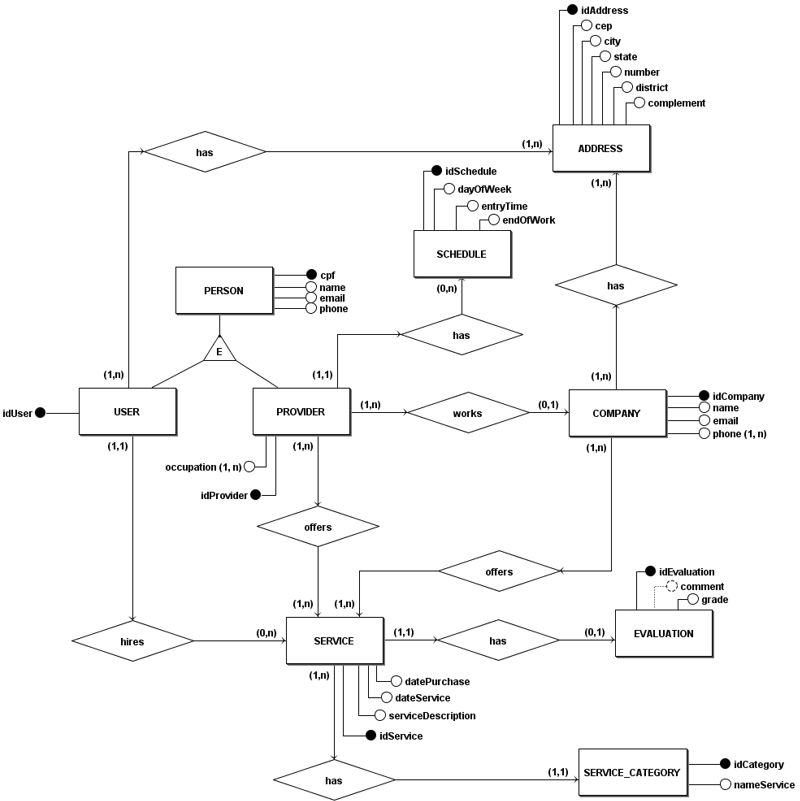
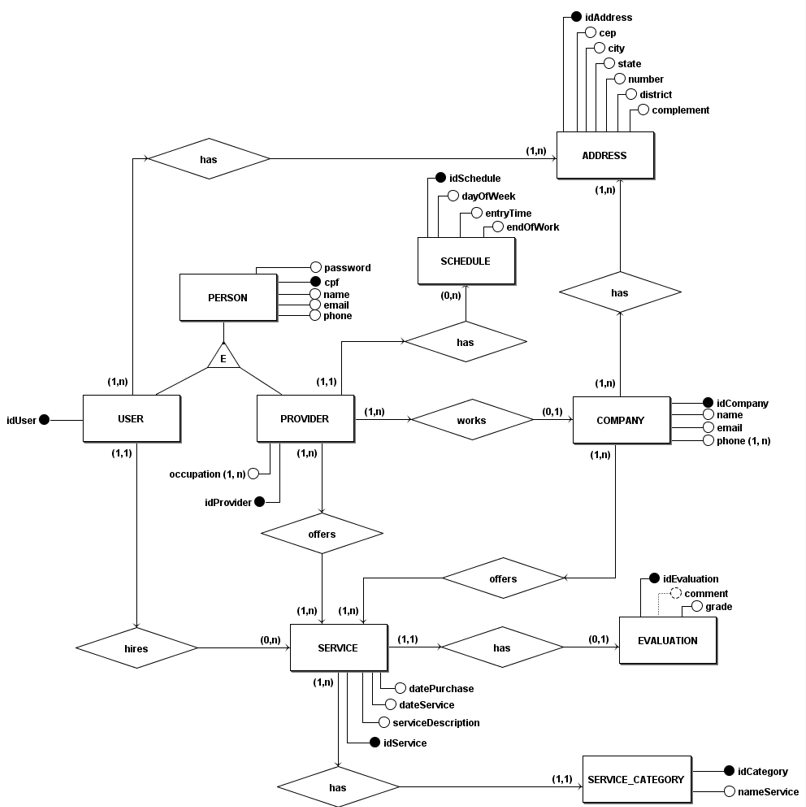
Reformulação da introdução e adição de biliografias

Changed region(s): [[0.0, 0.0, 1.0, 1.0], [0.6875, 0.3121, 0.8438, 0.4057], [0.3438, 0.9675, 0.375, 0.9988]]

diff --git a/docs/pages/modelagem/modelagemBanco.md b/docs/pages/modelagem/modelagemBanco.md
@@ -6,9 +6,16 @@
 
 O processo de modelagem de banco de dados é um processo de desenvolvimento de software que visa a construção de um modelo de dados que represente a estrutura de dados de uma base de dados, nesse processo se usa de coletas, analises, categorização e a explorarão dos dados e seus tipos.
 
-O documento em questão tem como objetivo documentar e apresentar a modelagem do banco de dados previamente definida e ir evoluindo de acordo com a evolução do software.
+"O objetivo da Modelagem de Dados é transmitir e apresentar uma representação única"(Machado, 2004, p.25), tarefa que não é simples levando em conta a complexidade de tarefas realizadas por softwares atuais. Para que a modelagem das entidades que compõe um sistema seja feita de forma adequada, por profissionais que não são especialistas, "que se propõe a situar uma sequência de atividades em uma ordem que possa resultar em ganhos de produtividade e confiabilidade" (Machado, 2004, p.26), de forma mais específica, trataremos da técnica de Modelagem Conceitual de Dados neste documento.
 
-Para essa modelagem, optaremos por utilizar um banco de dados relacional.
+A Modelagem Conceitual de Dados preve a estruturação em três níveis:
+
+- Projeto Conceitual
+- Projeto Lógico
+- Projeto Físico
+
+
+Para essa modelagem, optaremos por abordar as dois primeiros níveis **Projeto Conceitual** e **Projeto Lógico** em um banco de dados relacional.
 
 Traremos:
 
@@ -18,14 +25,14 @@ Traremos:
 2. DE-R (Diagrama Entidade-Relacionamento)<br>
    Objetivo: Representar em forma gráfica o que foi descrito no MER (Modelo Entidade Relacionamento).
 
-3. DE (Diagrama de esquemas)<br>
+3. DLD (Diagrama Lógico de Dados)<br>
    Objetivo: Representar a configuração lógica da totalidade ou de parte da base de dados relacional.
 
 ## 2. Modelo entidade e relacionamento (ME-R)
 
 ### 2.1 Entidades
 
-**PERSON** (name, email, <u>cpf</u>, phone)<br>
+**PERSON** (name, email, <u>cpf</u>, phone, password)<br>
 -   **USER** (<u>idUser</u>)<br>
 -   **PROVIDER** (<u>idProvider</u>, {occupation})<br>
 **COMPANY** (<u>idCompany</u>, name, email, {phone})<br>
@@ -158,6 +165,14 @@ Cardinalidade -> **1:n**
     </figcaption>
 </p>
 
+## 3. Referências
+
+> DEVMEDIA. Modelagem de Dados Tutorial. Disponível em: https://www.devmedia.com.br/modelagem-de-dados-tutorial/20398. Acesso em: 14 jan. de 2022.
+
+> CURUMIN. Modelo entidade relacionamento. Disponível em: https://unbarqdsw2021-1.github.io/2021.1_G6_Curumim/modelagem/modelagem-estatica/MER/. Acesso em: 14 jan. de 2022
+
+> MACHADO, F. N. R; BANCO DE DADOS: PROJETO E IMPLEMENTAÇÃO. 11. ed. 2004. p. 25-26
+
 </div>
 
 ### Histórico de versão
@@ -172,3 +187,4 @@ Cardinalidade -> **1:n**
 |  1.1   | 14/01/2022 | Revisão do documento               | João Victor                     |
 |  1.2   | 21/02/2022 | Correções do documento             | Guilherme Braz                  |
 |  2.0   | 15/03/2022 | Adição da nova versão do documento | Fernando, Lorrayne e Ariel      |
+|  2.1   | 17/03/2022 | Melhorias pós revisão | Fernando e Lorrayne     |
